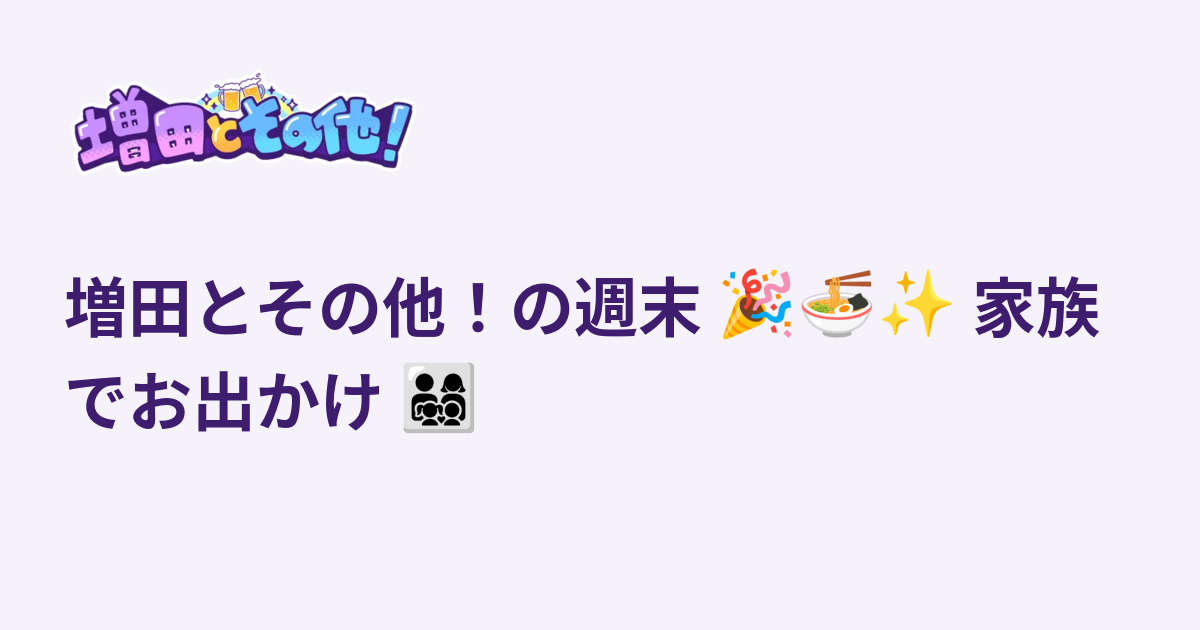
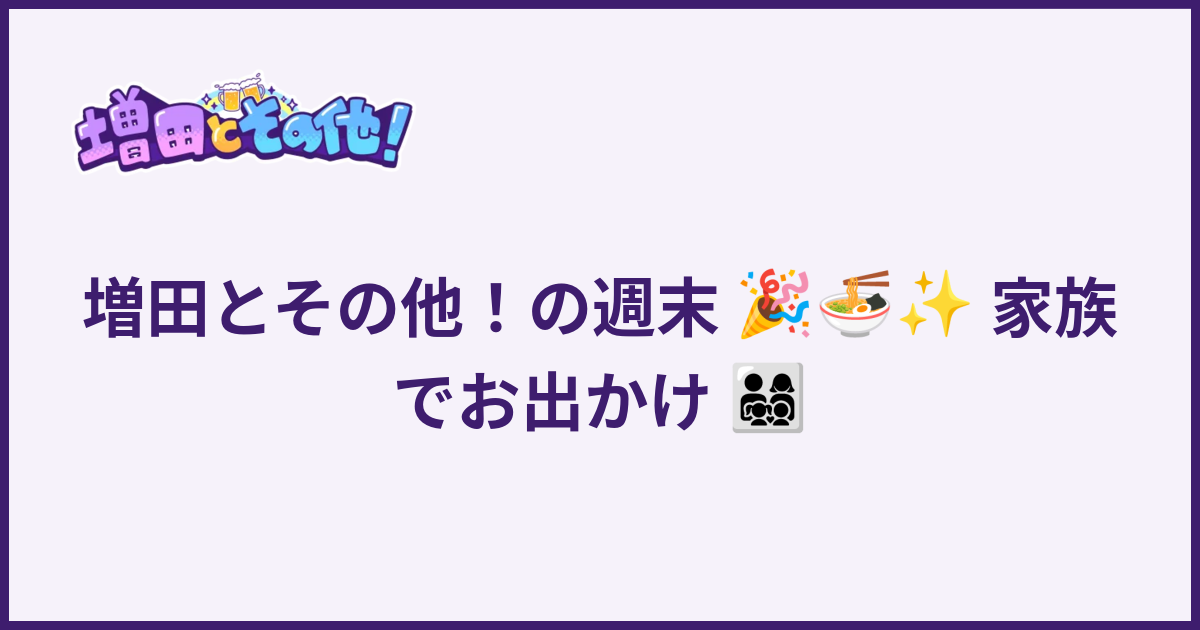
style: frame OGP images and center article titles

Changed region(s): [[0.0, 0.0, 1.0, 1.0], [0.0617, 0.573, 0.6783, 0.6937]]

diff --git a/backend/app/services/article_ogp_image.rb b/backend/app/services/article_ogp_image.rb
@@ -5,7 +5,7 @@ require "tmpdir"
 
 class ArticleOgpImage
   # Bump when layout, logo or rendering dependencies change.
-  TEMPLATE_VERSION = "1"
+  TEMPLATE_VERSION = "2"
   WIDTH = 1200
   HEIGHT = 630
   TITLE_WIDTH = 1072
@@ -39,7 +39,9 @@ class ArticleOgpImage
       output = File.join(directory, "image.png")
       command("convert", "-size", "#{WIDTH}x#{HEIGHT}", "xc:#F6F2FA",
         "(", LOGO.to_s, "-resize", "360x180>", ")", "-geometry", "+64+64", "-composite",
-        text_path, "-geometry", "+64+256", "-composite", "-strip", "PNG32:#{output}")
+        text_path, "-geometry", "+64+256", "-composite",
+        "-fill", "none", "-stroke", "#3E1D6E", "-strokewidth", "8",
+        "-draw", "rectangle 4,4 1195,625", "-strip", "PNG32:#{output}")
       File.binread(output)
     end
   rescue IOError, SystemCallError => error
@@ -77,7 +79,7 @@ class ArticleOgpImage
     escaped = CGI.escapeHTML(text).gsub("&", "&amp;").gsub("%", "%%").gsub("\\") { "\\\\" }
     # Pango sizes are 1/1024 point; 96 dpi converts 3/4 point to one pixel.
     markup = "<span font_family='Noto Sans CJK JP' weight='bold' size='#{size * 768}' foreground='#3E1D6E'>#{escaped}</span>"
-    command("convert", "-background", "none", "-density", "96", "-size", "#{TITLE_WIDTH}x", "-define", "pango:wrap=word-char", "pango:#{markup}", "PNG32:#{path}")
+    command("convert", "-background", "none", "-density", "96", "-size", "#{TITLE_WIDTH}x", "-define", "pango:wrap=word-char", "-define", "pango:align=center", "pango:#{markup}", "PNG32:#{path}")
   end
 
   def command(*arguments)

diff --git a/backend/spec/services/article_ogp_image_spec.rb b/backend/spec/services/article_ogp_image_spec.rb
@@ -8,7 +8,7 @@ RSpec.describe ArticleOgpImage do
       original = described_class.version(article:)
       expect(described_class.version(article: article.dup)).to eq(original)
       expect(described_class.version(article: article.merge(title: "更新"))).not_to eq(original)
-      stub_const("ArticleOgpImage::TEMPLATE_VERSION", "2")
+      stub_const("ArticleOgpImage::TEMPLATE_VERSION", "next")
       expect(described_class.version(article:)).not_to eq(original)
     end
   end
